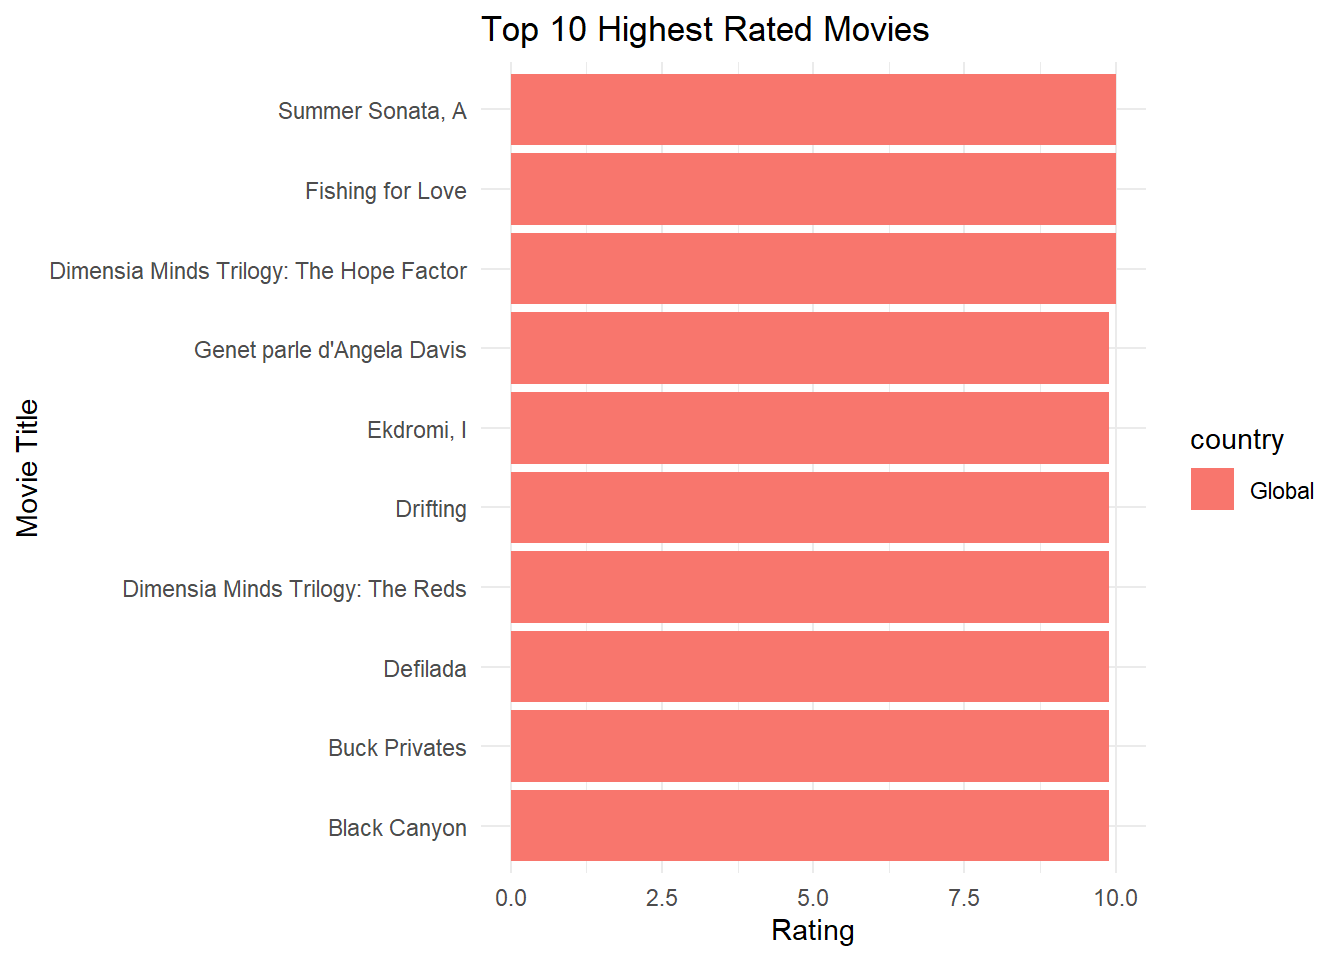
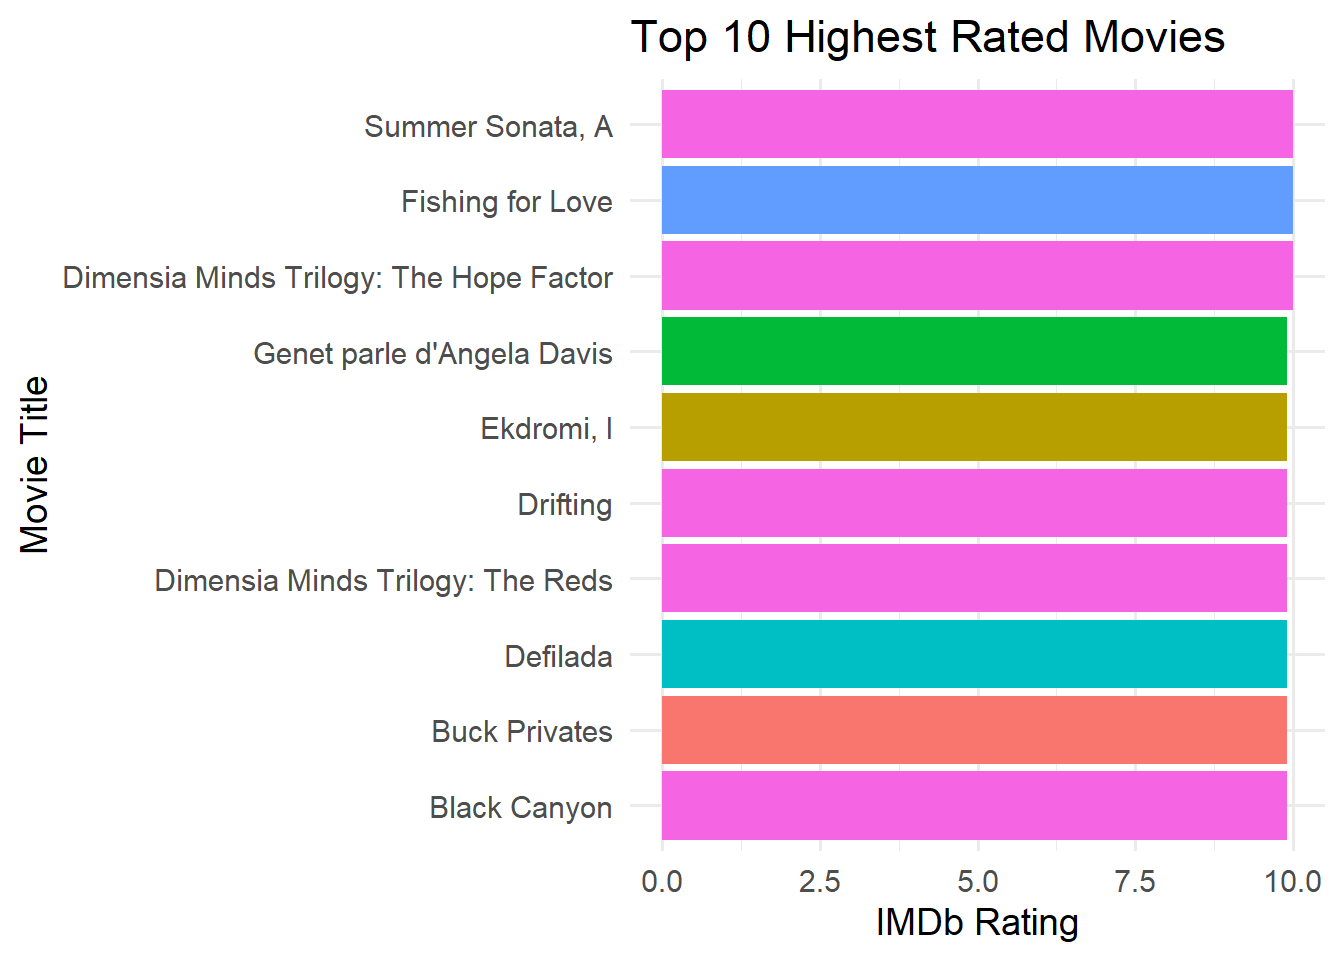
proje 1.teslim

diff --git a/docs/project.html b/docs/project.html
@@ -394,36 +394,18 @@ Attaching package: 'dplyr'</code></pre>
 <div class="cell-output cell-output-stderr">
 <pre><code>Warning: package 'ggplot2' was built under R version 4.4.3</code></pre>
 </div>
-<div class="sourceCode cell-code" id="cb17"><pre class="sourceCode r code-with-copy"><code class="sourceCode r"><span id="cb17-1"><a href="#cb17-1" aria-hidden="true" tabindex="-1"></a><span class="co"># Top 10 Highest Rated Movies tablosu</span></span>
-<span id="cb17-2"><a href="#cb17-2" aria-hidden="true" tabindex="-1"></a>top10_movies <span class="ot">&lt;-</span> combined_movies <span class="sc">%&gt;%</span></span>
-<span id="cb17-3"><a href="#cb17-3" aria-hidden="true" tabindex="-1"></a>  <span class="fu">arrange</span>(<span class="fu">desc</span>(rating)) <span class="sc">%&gt;%</span></span>
-<span id="cb17-4"><a href="#cb17-4" aria-hidden="true" tabindex="-1"></a>  <span class="fu">select</span>(title, rating, country) <span class="sc">%&gt;%</span></span>
-<span id="cb17-5"><a href="#cb17-5" aria-hidden="true" tabindex="-1"></a>  <span class="fu">head</span>(<span class="dv">10</span>)</span>
-<span id="cb17-6"><a href="#cb17-6" aria-hidden="true" tabindex="-1"></a></span>
-<span id="cb17-7"><a href="#cb17-7" aria-hidden="true" tabindex="-1"></a>top10_movies</span></code><button title="Copy to Clipboard" class="code-copy-button"><i class="bi"></i></button></pre></div>
-<div class="cell-output cell-output-stdout">
-<pre><code># A tibble: 10 × 3
-   title                                   rating country
-   &lt;chr&gt;                                    &lt;dbl&gt; &lt;chr&gt;  
- 1 Dimensia Minds Trilogy: The Hope Factor   10   Global 
- 2 Fishing for Love                          10   Global 
- 3 Summer Sonata, A                          10   Global 
- 4 Black Canyon                               9.9 Global 
- 5 Buck Privates                              9.9 Global 
- 6 Defilada                                   9.9 Global 
- 7 Dimensia Minds Trilogy: The Reds           9.9 Global 
- 8 Drifting                                   9.9 Global 
- 9 Ekdromi, I                                 9.9 Global 
-10 Genet parle d'Angela Davis                 9.9 Global </code></pre>
-</div>
-<div class="sourceCode cell-code" id="cb19"><pre class="sourceCode r code-with-copy"><code class="sourceCode r"><span id="cb19-1"><a href="#cb19-1" aria-hidden="true" tabindex="-1"></a><span class="co"># Top 10 Movies Rating Bar Chart</span></span>
-<span id="cb19-2"><a href="#cb19-2" aria-hidden="true" tabindex="-1"></a><span class="fu">ggplot</span>(top10_movies, <span class="fu">aes</span>(<span class="at">x =</span> <span class="fu">reorder</span>(title, rating), <span class="at">y =</span> rating, <span class="at">fill =</span> country)) <span class="sc">+</span></span>
-<span id="cb19-3"><a href="#cb19-3" aria-hidden="true" tabindex="-1"></a>  <span class="fu">geom_bar</span>(<span class="at">stat =</span> <span class="st">"identity"</span>) <span class="sc">+</span></span>
-<span id="cb19-4"><a href="#cb19-4" aria-hidden="true" tabindex="-1"></a>  <span class="fu">coord_flip</span>() <span class="sc">+</span>  <span class="co"># Başlıkları yatay gösterir</span></span>
-<span id="cb19-5"><a href="#cb19-5" aria-hidden="true" tabindex="-1"></a>  <span class="fu">labs</span>(<span class="at">title =</span> <span class="st">"Top 10 Highest Rated Movies"</span>,</span>
-<span id="cb19-6"><a href="#cb19-6" aria-hidden="true" tabindex="-1"></a>       <span class="at">x =</span> <span class="st">"Movie Title"</span>,</span>
-<span id="cb19-7"><a href="#cb19-7" aria-hidden="true" tabindex="-1"></a>       <span class="at">y =</span> <span class="st">"Rating"</span>) <span class="sc">+</span></span>
-<span id="cb19-8"><a href="#cb19-8" aria-hidden="true" tabindex="-1"></a>  <span class="fu">theme_minimal</span>()</span></code><button title="Copy to Clipboard" class="code-copy-button"><i class="bi"></i></button></pre></div>
+<div class="sourceCode cell-code" id="cb17"><pre class="sourceCode r code-with-copy"><code class="sourceCode r"><span id="cb17-1"><a href="#cb17-1" aria-hidden="true" tabindex="-1"></a><span class="co"># Top 10 Movies Rating Bar Chart (Corrected Version)</span></span>
+<span id="cb17-2"><a href="#cb17-2" aria-hidden="true" tabindex="-1"></a>movies <span class="sc">%&gt;%</span></span>
+<span id="cb17-3"><a href="#cb17-3" aria-hidden="true" tabindex="-1"></a>  <span class="fu">filter</span>(rating <span class="sc">&gt;</span> <span class="dv">0</span>) <span class="sc">%&gt;%</span>                     <span class="co"># IMDb puanı olan filmleri al</span></span>
+<span id="cb17-4"><a href="#cb17-4" aria-hidden="true" tabindex="-1"></a>  <span class="fu">arrange</span>(<span class="fu">desc</span>(rating)) <span class="sc">%&gt;%</span>                  <span class="co"># Puanlara göre azalan sırala</span></span>
+<span id="cb17-5"><a href="#cb17-5" aria-hidden="true" tabindex="-1"></a>  <span class="fu">slice_head</span>(<span class="at">n =</span> <span class="dv">10</span>) <span class="sc">%&gt;%</span>                     <span class="co"># En yüksek 10 filmi seç</span></span>
+<span id="cb17-6"><a href="#cb17-6" aria-hidden="true" tabindex="-1"></a>  <span class="fu">ggplot</span>(<span class="fu">aes</span>(<span class="at">x =</span> <span class="fu">reorder</span>(title, rating), <span class="at">y =</span> rating, <span class="at">fill =</span> <span class="fu">factor</span>(year))) <span class="sc">+</span>  <span class="co"># Renk farklılığı için yıl kullan</span></span>
+<span id="cb17-7"><a href="#cb17-7" aria-hidden="true" tabindex="-1"></a>  <span class="fu">geom_col</span>(<span class="at">show.legend =</span> <span class="cn">FALSE</span>) <span class="sc">+</span>             <span class="co"># Kolon grafiği</span></span>
+<span id="cb17-8"><a href="#cb17-8" aria-hidden="true" tabindex="-1"></a>  <span class="fu">coord_flip</span>() <span class="sc">+</span>                              <span class="co"># Yatay başlıklar</span></span>
+<span id="cb17-9"><a href="#cb17-9" aria-hidden="true" tabindex="-1"></a>  <span class="fu">labs</span>(<span class="at">title =</span> <span class="st">"Top 10 Highest Rated Movies"</span>,</span>
+<span id="cb17-10"><a href="#cb17-10" aria-hidden="true" tabindex="-1"></a>       <span class="at">x =</span> <span class="st">"Movie Title"</span>,</span>
+<span id="cb17-11"><a href="#cb17-11" aria-hidden="true" tabindex="-1"></a>       <span class="at">y =</span> <span class="st">"IMDb Rating"</span>) <span class="sc">+</span></span>
+<span id="cb17-12"><a href="#cb17-12" aria-hidden="true" tabindex="-1"></a>  <span class="fu">theme_minimal</span>(<span class="at">base_size =</span> <span class="dv">14</span>)</span></code><button title="Copy to Clipboard" class="code-copy-button"><i class="bi"></i></button></pre></div>
 <div class="cell-output-display">
 <div>
 <figure class="figure">
@@ -433,12 +415,12 @@ Attaching package: 'dplyr'</code></pre>
 </div>
 </div>
 <div class="cell">
-<div class="sourceCode cell-code" id="cb20"><pre class="sourceCode r code-with-copy"><code class="sourceCode r"><span id="cb20-1"><a href="#cb20-1" aria-hidden="true" tabindex="-1"></a>combined_movies <span class="sc">%&gt;%</span></span>
-<span id="cb20-2"><a href="#cb20-2" aria-hidden="true" tabindex="-1"></a>  <span class="fu">group_by</span>(country) <span class="sc">%&gt;%</span></span>
-<span id="cb20-3"><a href="#cb20-3" aria-hidden="true" tabindex="-1"></a>  <span class="fu">summarize</span>(</span>
-<span id="cb20-4"><a href="#cb20-4" aria-hidden="true" tabindex="-1"></a>    <span class="at">Average_Rating =</span> <span class="fu">round</span>(<span class="fu">mean</span>(rating, <span class="at">na.rm =</span> <span class="cn">TRUE</span>), <span class="dv">2</span>),</span>
-<span id="cb20-5"><a href="#cb20-5" aria-hidden="true" tabindex="-1"></a>    <span class="at">Average_Length =</span> <span class="fu">round</span>(<span class="fu">mean</span>(length, <span class="at">na.rm =</span> <span class="cn">TRUE</span>), <span class="dv">1</span>)</span>
-<span id="cb20-6"><a href="#cb20-6" aria-hidden="true" tabindex="-1"></a>  )</span></code><button title="Copy to Clipboard" class="code-copy-button"><i class="bi"></i></button></pre></div>
+<div class="sourceCode cell-code" id="cb18"><pre class="sourceCode r code-with-copy"><code class="sourceCode r"><span id="cb18-1"><a href="#cb18-1" aria-hidden="true" tabindex="-1"></a>combined_movies <span class="sc">%&gt;%</span></span>
+<span id="cb18-2"><a href="#cb18-2" aria-hidden="true" tabindex="-1"></a>  <span class="fu">group_by</span>(country) <span class="sc">%&gt;%</span></span>
+<span id="cb18-3"><a href="#cb18-3" aria-hidden="true" tabindex="-1"></a>  <span class="fu">summarize</span>(</span>
+<span id="cb18-4"><a href="#cb18-4" aria-hidden="true" tabindex="-1"></a>    <span class="at">Average_Rating =</span> <span class="fu">round</span>(<span class="fu">mean</span>(rating, <span class="at">na.rm =</span> <span class="cn">TRUE</span>), <span class="dv">2</span>),</span>
+<span id="cb18-5"><a href="#cb18-5" aria-hidden="true" tabindex="-1"></a>    <span class="at">Average_Length =</span> <span class="fu">round</span>(<span class="fu">mean</span>(length, <span class="at">na.rm =</span> <span class="cn">TRUE</span>), <span class="dv">1</span>)</span>
+<span id="cb18-6"><a href="#cb18-6" aria-hidden="true" tabindex="-1"></a>  )</span></code><button title="Copy to Clipboard" class="code-copy-button"><i class="bi"></i></button></pre></div>
 <div class="cell-output cell-output-stdout">
 <pre><code># A tibble: 2 × 3
   country Average_Rating Average_Length
@@ -473,14 +455,14 @@ We noticed that there were slight differences in the available columns, especial
 <li><p>At the end of the preprocessing phase, we saved the final version of the dataset as an <code>.RData</code> file, making it ready for the subsequent stages of analysis.</p></li>
 </ul>
 <div class="cell">
-<div class="sourceCode cell-code" id="cb22"><pre class="sourceCode r code-with-copy"><code class="sourceCode r"><span id="cb22-1"><a href="#cb22-1" aria-hidden="true" tabindex="-1"></a><span class="co"># 1. Import CSV Dataset</span></span>
-<span id="cb22-2"><a href="#cb22-2" aria-hidden="true" tabindex="-1"></a>combined_movies <span class="ot">&lt;-</span> <span class="fu">read.csv</span>(<span class="st">"combined_movies_final.csv"</span>, <span class="at">fileEncoding =</span> <span class="st">"UTF-8"</span>)</span>
-<span id="cb22-3"><a href="#cb22-3" aria-hidden="true" tabindex="-1"></a></span>
-<span id="cb22-4"><a href="#cb22-4" aria-hidden="true" tabindex="-1"></a><span class="co"># 2. Save as RData</span></span>
-<span id="cb22-5"><a href="#cb22-5" aria-hidden="true" tabindex="-1"></a><span class="fu">save</span>(combined_movies, <span class="at">file =</span> <span class="st">"combined_movies.RData"</span>)</span>
-<span id="cb22-6"><a href="#cb22-6" aria-hidden="true" tabindex="-1"></a></span>
-<span id="cb22-7"><a href="#cb22-7" aria-hidden="true" tabindex="-1"></a><span class="co"># 3. Load the dataset</span></span>
-<span id="cb22-8"><a href="#cb22-8" aria-hidden="true" tabindex="-1"></a><span class="fu">load</span>(<span class="st">"combined_movies.RData"</span>)</span></code><button title="Copy to Clipboard" class="code-copy-button"><i class="bi"></i></button></pre></div>
+<div class="sourceCode cell-code" id="cb20"><pre class="sourceCode r code-with-copy"><code class="sourceCode r"><span id="cb20-1"><a href="#cb20-1" aria-hidden="true" tabindex="-1"></a><span class="co"># 1. Import CSV Dataset</span></span>
+<span id="cb20-2"><a href="#cb20-2" aria-hidden="true" tabindex="-1"></a>combined_movies <span class="ot">&lt;-</span> <span class="fu">read.csv</span>(<span class="st">"combined_movies_final.csv"</span>, <span class="at">fileEncoding =</span> <span class="st">"UTF-8"</span>)</span>
+<span id="cb20-3"><a href="#cb20-3" aria-hidden="true" tabindex="-1"></a></span>
+<span id="cb20-4"><a href="#cb20-4" aria-hidden="true" tabindex="-1"></a><span class="co"># 2. Save as RData</span></span>
+<span id="cb20-5"><a href="#cb20-5" aria-hidden="true" tabindex="-1"></a><span class="fu">save</span>(combined_movies, <span class="at">file =</span> <span class="st">"combined_movies.RData"</span>)</span>
+<span id="cb20-6"><a href="#cb20-6" aria-hidden="true" tabindex="-1"></a></span>
+<span id="cb20-7"><a href="#cb20-7" aria-hidden="true" tabindex="-1"></a><span class="co"># 3. Load the dataset</span></span>
+<span id="cb20-8"><a href="#cb20-8" aria-hidden="true" tabindex="-1"></a><span class="fu">load</span>(<span class="st">"combined_movies.RData"</span>)</span></code><button title="Copy to Clipboard" class="code-copy-button"><i class="bi"></i></button></pre></div>
 </div>
 
 
